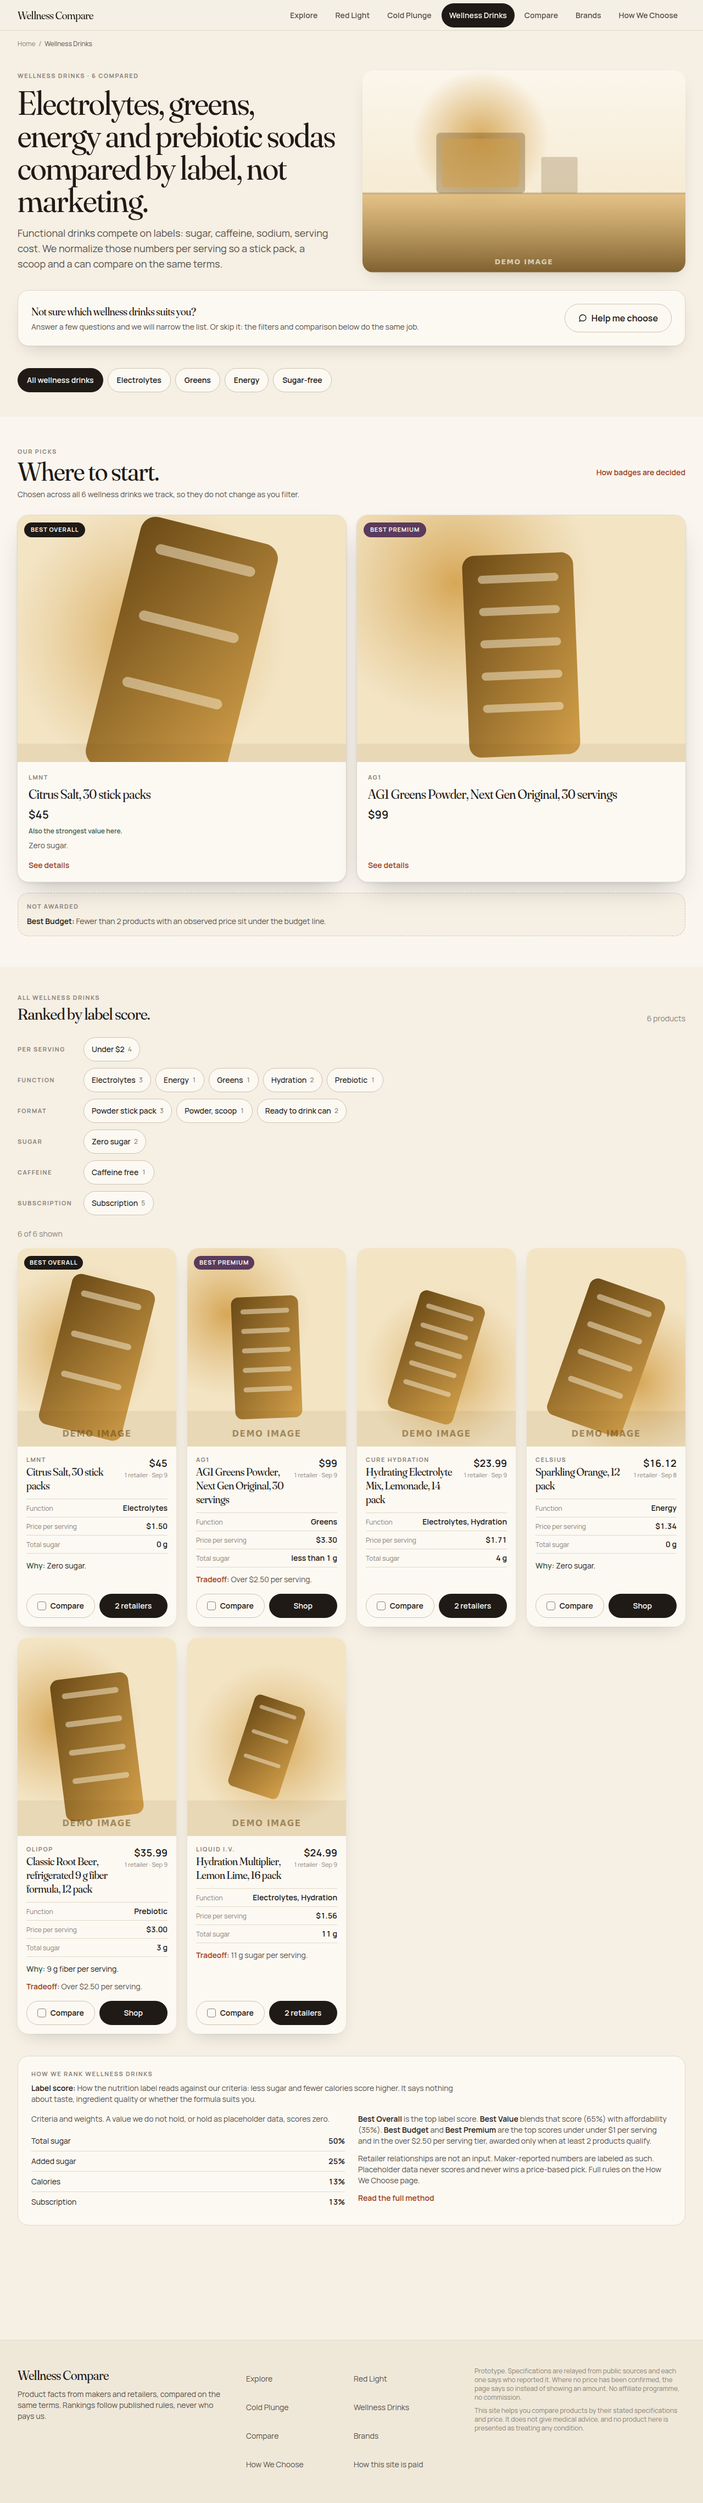
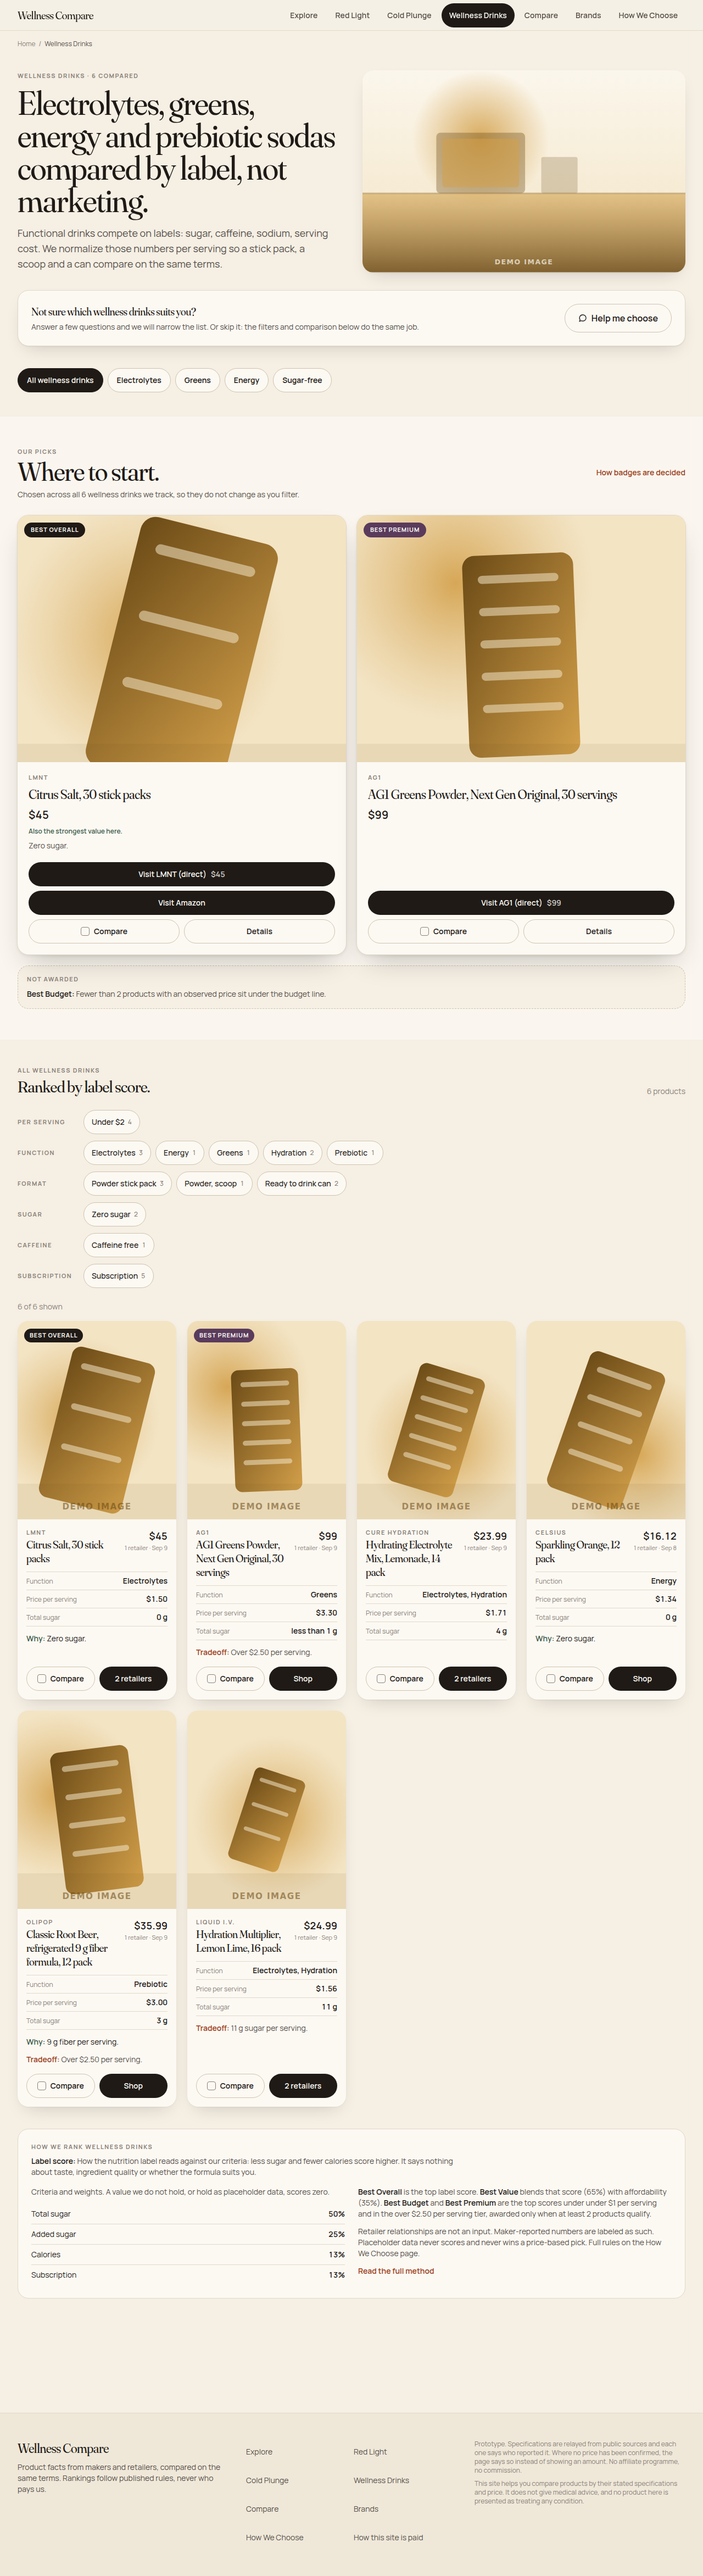
Picks cards could only be clicked into, and one linked somewhere it should not
Every Our picks card was a single anchor wrapping the whole thing, ending in
"See details". No retailer, no compare, and no way to add either without
nesting a control inside a link.

The card is an article now. Image and title stay their own links, so every way
in still works, and each action is its own control: Visit [merchant] for every
retailer on the record, Compare using the existing toggle and provider, and
Details as a separate labelled link. The same three things the comparison
columns offer, in the same words, reusing buttonStyles and CompareToggle
rather than anything new. Verified with a real click on the red-light picks:
aria-pressed goes false to true on desktop and mobile, the label becomes
Comparing, wc.compare.v1 holds the product, and /compare?ids=hooga-pro1500
shows it.

A withheld offer was reaching a shopping surface. ProductCard linked straight
out whenever a product had exactly one offer, without asking whether that offer
was withheld, so the Plunge card carried a Shop button to a page whose
configuration nobody has matched, which the product page already refuses to
link. One rule now decides what a shopper can be sent to, buyableOffers in
view.ts, used by the card, the picks row and the comparison: withheld offers
never, real amounts first and cheapest first, placeholders last. The Plunge
card has no outbound link now.

A missing price still keeps a real retailer: Infraredi's amount is prototype
[…]

diff --git a/src/components/category/WinnersRow.tsx b/src/components/category/WinnersRow.tsx
@@ -2,10 +2,13 @@
 
 import Link from "next/link";
 import { Badge } from "@/components/ui/Badge";
+import { buttonStyles } from "@/components/ui/Button";
+import { CompareToggle } from "@/components/compare/CompareToggle";
 import { ImageFrame, primaryImage } from "@/components/ui/ImageFrame";
 import type { CategoryDefinition } from "@/domain/category";
-import { displayPrice } from "@/domain/view";
+import { buyableOffers, displayPrice } from "@/domain/view";
 import { BADGES, BADGE_LABELS, primaryStrength, type RecommendationSet, type RecommendedProduct } from "@/domain/recommend";
+import { formatMoney } from "@/domain/money";
 import { cn } from "@/lib/cn";
 import { useCategoryFilters } from "./FilterContext";
 
@@ -43,31 +46,72 @@ export function WinnersRow({ products, cat, set }: { products: RecommendedProduc
             const alsoValue = w.badges.includes("best_overall") && w.badges.includes("best_value");
             const why = primaryStrength(w.view, cat);
             const isOutside = f?.active === true && !f.visible.has(w.view.id);
+            const merchants = buyableOffers(w.view);
             return (
-              <Link
+              // An article, not a link. The whole card used to be one anchor,
+              // which left no way to add a retailer link or a compare control
+              // without nesting interactive elements inside it. The image and
+              // the title are their own links now, so every way in still
+              // works and each action is its own control.
+              <article
                 key={w.view.id}
-                href={`/products/${w.view.slug}`}
                 className={cn(
                   "lift group flex flex-col overflow-hidden rounded-card bg-surface-raised shadow-float ring-1 ring-edge hover:-translate-y-0.5",
                   isOutside && "opacity-60 ring-dashed",
                 )}
               >
-                <div className="relative">
+                <Link href={`/products/${w.view.slug}`} className="relative block" aria-label={`${w.view.brand.name} ${w.view.name}`}>
                   <ImageFrame image={primaryImage(w.view.images)} ratio="4/3" priority={i < 2} />
                   <div className="absolute left-3 top-3">
                     <Badge kind={w.badges[0]} className="px-3 py-1.5 text-xs" />
                   </div>
-                </div>
+                </Link>
                 <div className="flex flex-1 flex-col gap-2 p-5">
                   {isOutside ? <p className="text-xs font-semibold text-accent-strong">Outside your current filters</p> : null}
                   <p className="eyebrow">{w.view.brand.name}</p>
-                  <p className="font-display text-2xl leading-tight group-hover:underline">{w.view.name}</p>
+                  <p className="font-display text-2xl leading-tight">
+                    <Link href={`/products/${w.view.slug}`} className="hover:underline">
+                      {w.view.name}
+                    </Link>
+                  </p>
                   <p className="tabular text-xl font-semibold">{displayPrice(w.view.price)}</p>
                   {alsoValue ? <p className="text-xs font-semibold text-positive">Also the strongest value here.</p> : null}
                   {why ? <p className="text-sm text-fg-soft">{why}</p> : null}
-                  <span className="mt-auto pt-2 text-sm font-semibold text-accent-strong">See details</span>
+
+                  {/* The same three things the comparison offers, in the same
+                      words: every retailer on the record by name, a way to add
+                      the product to a comparison, and a separate link to the
+                      details. A product with nothing to link to shows no
+                      outbound action rather than a fabricated one, and a
+                      product whose amount is a placeholder keeps its retailer.
+                      Nothing here claims stock. */}
+                  <div className="mt-auto flex flex-col gap-2 pt-3">
+                    {merchants.map((o) => (
+                      <a
+                        key={o.id}
+                        href={o.url}
+                        target="_blank"
+                        rel="sponsored nofollow noopener"
+                        className={cn(buttonStyles("primary", "md"), "w-full justify-between gap-2 px-4")}
+                      >
+                        <span className="truncate">Visit {o.merchant.name}</span>
+                        {o.priceIsDemo ? null : <span className="tabular shrink-0 opacity-80">{formatMoney(o.price)}</span>}
+                      </a>
+                    ))}
+                    <div className="grid grid-cols-2 gap-2">
+                      <CompareToggle item={{ id: w.view.id, slug: w.view.slug, name: w.view.name, categoryId: w.view.categoryId }} />
+                      <Link href={`/products/${w.view.slug}`} className={buttonStyles("secondary", "md")}>
+                        Details
+                      </Link>
+                    </div>
+                    {merchants.length === 0 ? (
+                      <p className="text-xs leading-snug text-fg-muted">
+                        No retailer we can link to for this one. Details says what we hold.
+                      </p>
+                    ) : null}
+                  </div>
                 </div>
-              </Link>
+              </article>
             );
           })}
         </div>

diff --git a/src/components/product/ProductCard.tsx b/src/components/product/ProductCard.tsx
@@ -7,6 +7,7 @@ import { PriceDisplay } from "@/components/ui/PriceDisplay";
 import { SpecRow } from "@/components/ui/SpecRow";
 import type { CategoryDefinition } from "@/domain/category";
 import { primaryStrength, primaryTradeoff, type RecommendedProduct } from "@/domain/recommend";
+import { buyableOffers } from "@/domain/view";
 
 // Card budget: image, one badge, brand, name, price, three specs, one why
 // line, one tradeoff line (hidden on phones), two actions. Nothing else.
@@ -16,8 +17,14 @@ export function ProductCard({ item, cat, priority = false }: { item: Recommended
   const primaryBadge = item.badges[0];
   const strength = primaryStrength(view, cat);
   const tradeoff = primaryTradeoff(view, cat);
-  const shopHref = view.offers.length === 1 ? view.offers[0].url : `${href}#retailers`;
-  const external = view.offers.length === 1;
+  // Only offers a shopper can be sent to. A card sent people straight to a
+  // withheld listing whenever a product had exactly one offer and that offer
+  // was the withheld one: Plunge's card carried a Shop button to a page whose
+  // configuration nobody has matched, which the product page already refuses
+  // to link.
+  const buyable = buyableOffers(view);
+  const shopHref = buyable.length === 1 ? buyable[0].url : `${href}#retailers`;
+  const external = buyable.length === 1;
 
   return (
     <article className="lift flex flex-col overflow-hidden rounded-card bg-surface-raised shadow-card hover:-translate-y-0.5 hover:shadow-float">

diff --git a/src/components/category/FilterBar.tsx b/src/components/category/FilterBar.tsx
@@ -56,7 +56,10 @@ export function FilterChips() {
 export function FilterableGrid({ children, emptyHref, emptyLabel }: { children: ReactNode[]; emptyHref?: string; emptyLabel?: string }) {
   const f = useCategoryFilters();
   const indexOf = useMemo(() => new Map((f?.ids ?? []).map((id, i) => [id, i])), [f?.ids]);
-  if (!f) return <div className="grid gap-5 sm:grid-cols-2 lg:grid-cols-4">{children}</div>;
+  // `data-product-grid` names the grid a filter acts on. The picks row above
+  // it is also a row of <article> cards now, and anything identifying the grid
+  // by shape confused the two once a filter shrank the grid below four.
+  if (!f) return <div data-product-grid className="grid gap-5 sm:grid-cols-2 lg:grid-cols-4">{children}</div>;
 
   return (
     <div>
@@ -99,7 +102,7 @@ export function FilterableGrid({ children, emptyHref, emptyLabel }: { children: 
           ) : null}
         </div>
       ) : (
-        <div className="grid gap-5 sm:grid-cols-2 lg:grid-cols-4">
+        <div data-product-grid className="grid gap-5 sm:grid-cols-2 lg:grid-cols-4">
           {/* The assistant's order when it has one, the page's otherwise. A
               preference that reorders nothing is not a preference. */}
           {(f.assistantOrder ?? f.ids).map((id) => (f.visible.has(id) ? children[indexOf.get(id)!] : null))}

diff --git a/src/domain/compare.ts b/src/domain/compare.ts
@@ -6,7 +6,7 @@ import { formatMoney } from "./money";
 import type { Badge } from "./recommend/badges";
 import { primaryStrength, primaryTradeoff, type RecommendedProduct } from "./recommend";
 import type { Verification } from "./provenance";
-import { displayPrice, type ProductView } from "./view";
+import { buyableOffers, displayPrice, type ProductView } from "./view";
 
 // Serializable comparison model. Built on the server so the client component
 // carries no domain code, only rows to render.
@@ -147,10 +147,7 @@ export function buildCompareModel(items: RecommendedProduct[], cat: CategoryDefi
     // Affiliate status is not read here and cannot be. `ProductView` carries it
     // for display; nothing in this file sorts, filters or picks on it, and the
     // affiliate-neutrality test would fail if it did.
-    merchants: it.view.offers
-      .filter((o) => !o.disputed)
-      .slice()
-      .sort((a, b) => Number(a.priceIsDemo) - Number(b.priceIsDemo) || a.price.amountMinor - b.price.amountMinor)
+    merchants: buyableOffers(it.view)
       .map((o) => ({
         offerId: o.id,
         merchant: o.merchant.name,

diff --git a/src/domain/view.ts b/src/domain/view.ts
@@ -85,6 +85,21 @@ export function displayPrice(price: PriceView): string {
   return price.money === undefined || price.isDemo ? PRICE_UNCONFIRMED : formatMoney(price.money);
 }
 
+// The offers a shopper can be sent to, in the order a shopper should see them:
+// real amounts first and cheapest first, then the ones whose amount is a
+// placeholder. A withheld offer is never among them, because its amount and
+// its link belong to another product or an unmatched configuration.
+//
+// Every surface that offers a way to buy goes through this. The product page
+// had the rule and the category card did not, so a card carried a Shop button
+// straight to a listing the product page refused to show.
+export function buyableOffers(view: { offers: OfferView[] }): OfferView[] {
+  return view.offers
+    .filter((o) => !o.disputed)
+    .slice()
+    .sort((a, b) => Number(a.priceIsDemo) - Number(b.priceIsDemo) || a.price.amountMinor - b.price.amountMinor);
+}
+
 export function displayOfferPrice(offer: OfferView): string {
   return offer.priceIsDemo ? PRICE_UNCONFIRMED : formatMoney(offer.price);
 }

diff --git a/docs/preview/index.html b/docs/preview/index.html
@@ -39,7 +39,7 @@
 <header>
   <h1>Wellness Compare</h1>
   <p>Screenshots of the built site. Every image is a real page from a production build served locally, not a mockup.</p>
-  <p class="meta">Build <code id="build">ZPnZtM6msWu8ecvWg0JUi</code>, captured <span id="captured">2026-09-10</span>. Run it yourself with <code>npm run preview</code>.</p>
+  <p class="meta">Build <code id="build">WxbkMwgGrYUgUIh_wvjIT</code>, captured <span id="captured">2026-09-10</span>. Run it yourself with <code>npm run preview</code>.</p>
 </header>
 
 <div class="tabs" role="group" aria-label="Viewport">
